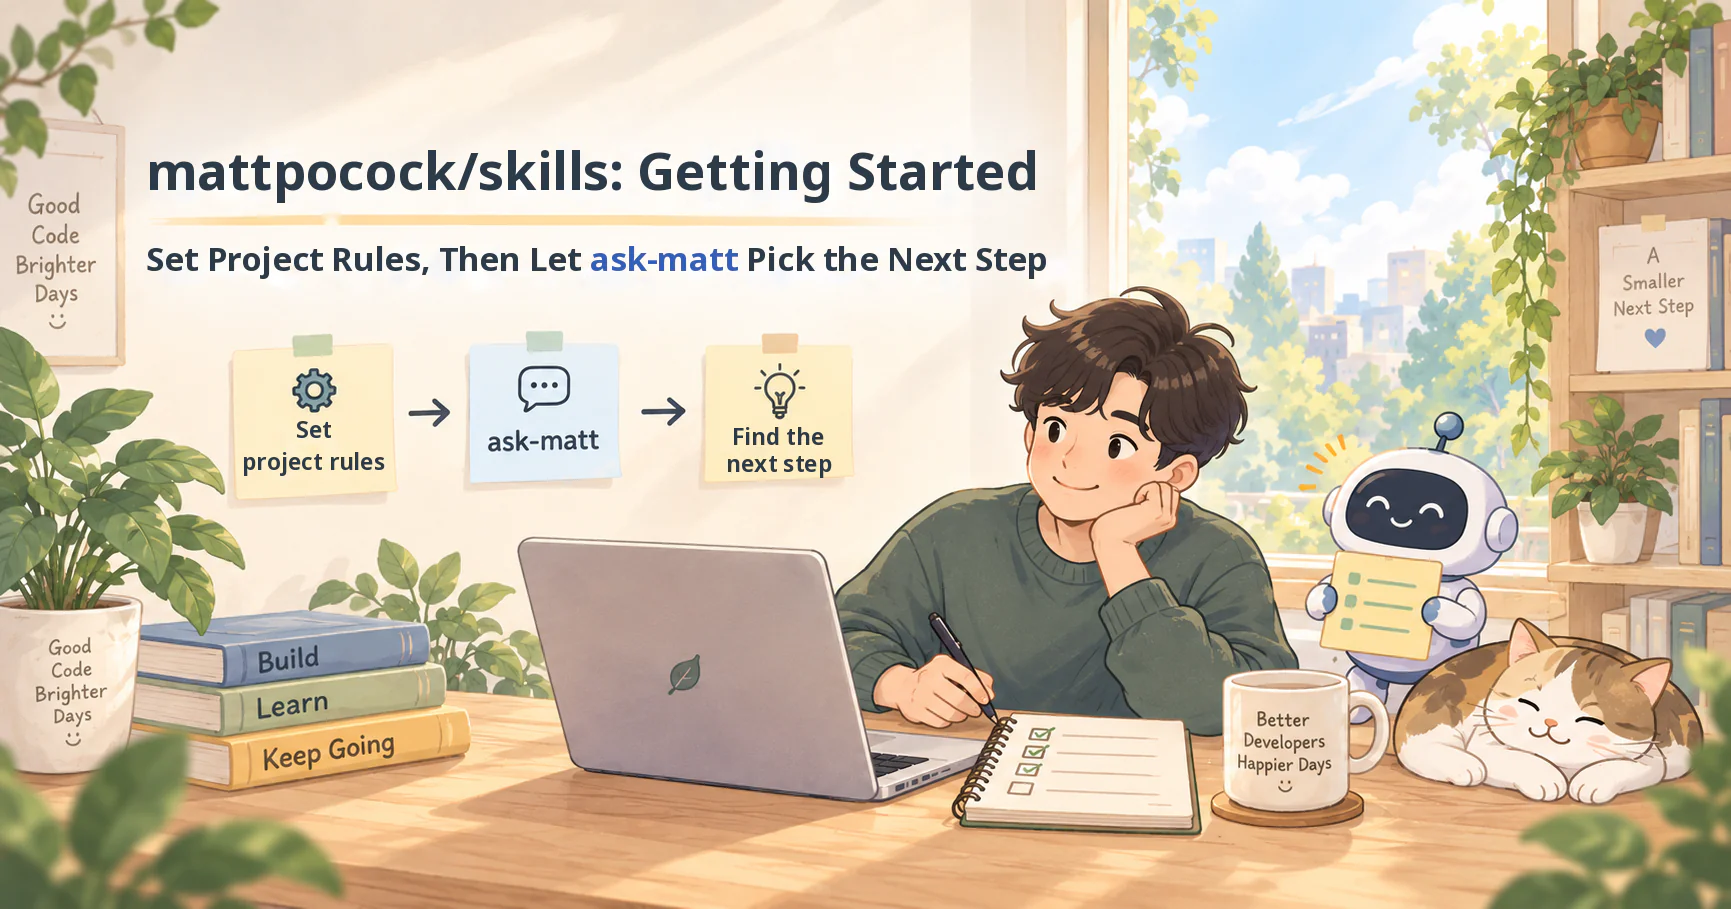
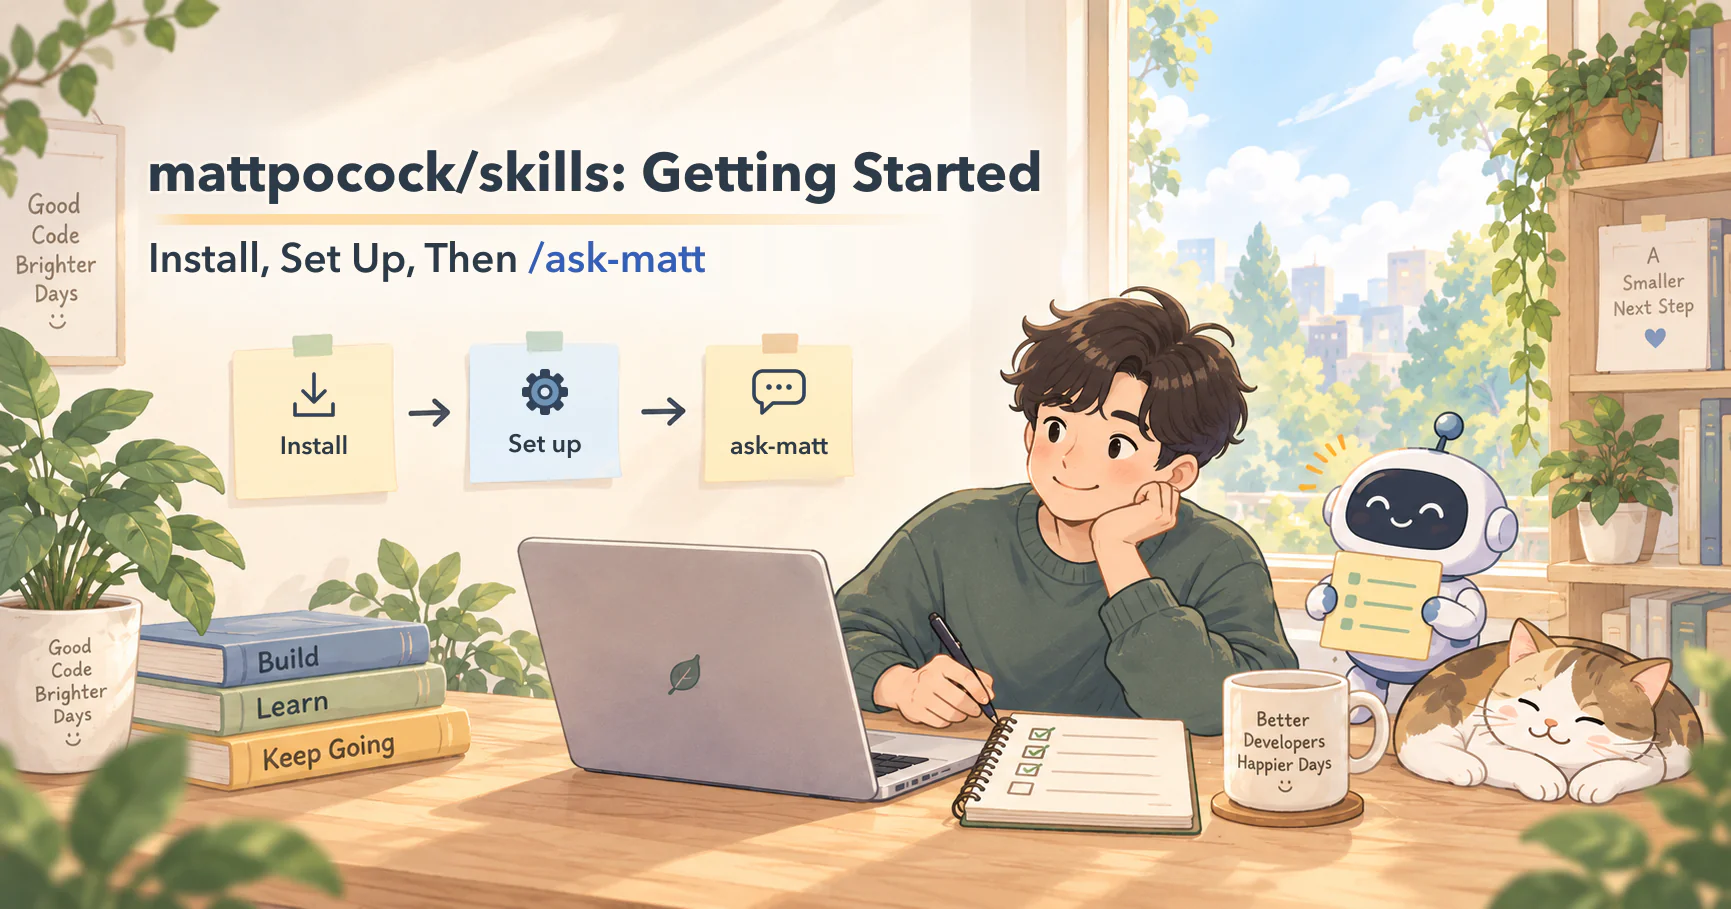
fix(posts): mattpocock/skills 第 1 篇英文封面配合新標題重畫文字
封面同時是 og:image。副標改成 Install, Set Up, Then /ask-matt，
三張便利貼改成 Install、Set up、ask-matt，插畫本身不變。alt 一併更新。

diff --git a/_posts/en/2026-09-21-mattpocock-skills-setup-routing-guide.md b/_posts/en/2026-09-21-mattpocock-skills-setup-routing-guide.md
@@ -7,7 +7,7 @@ tags: [agent-skills, coding-agent, mattpocock, workflow]
 media_subpath: /assets/img/posts/mattpocock-skills-setup-routing-guide/
 image:
   path: cover.en.webp
-  alt: "Skip memorizing 25 skills: set up your project once, then let ask-matt suggest the next step, though you still start it yourself."
+  alt: "Getting started with mattpocock/skills in three steps: install, set up your project once, then let ask-matt suggest the next step."
 mermaid: true
 ---
 
